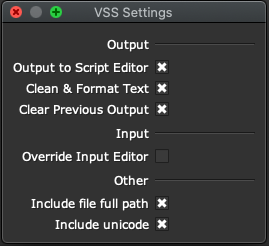
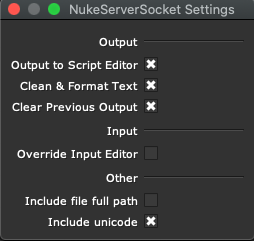
.

diff --git a/src/main.py b/src/main.py
@@ -12,12 +12,12 @@ from PySide2.QtWidgets import (
     QWidget
 )
 
-from VscodeServerSocket.src.connection import Server, ClientTest
-from VscodeServerSocket.src.widgets import (
+from NukeServerSocket.src.connection import Server, ClientTest
+from NukeServerSocket.src.widgets import (
     TextWidgets, ServerStatus, ErrorDialog, ToolBar
 )
 
-LOGGER = logging.getLogger('VscodeServerSocket.main')
+LOGGER = logging.getLogger('NukeServerSocket.main')
 LOGGER.debug('\nSTART APPLICATION')
 
 
@@ -60,7 +60,7 @@ class MainWindowWidget(QWidget):
     def _show_port_error():
         """Error message when port is not in the correct range."""
         err_msg = QErrorMessage()
-        err_msg.setWindowTitle('VscodeServerSocket')
+        err_msg.setWindowTitle('NukeServerSocket')
         err_msg.showMessage('Port should be between 49152 and 65535')
         err_msg.exec_()
 
@@ -128,7 +128,7 @@ class MainWindowWidget(QWidget):
 class MainWindow(QMainWindow):
     def __init__(self):
         QMainWindow.__init__(self)
-        self.setWindowTitle("TCP/Server")
+        self.setWindowTitle("NukeServerSocket")
 
         toolbar = ToolBar()
         self.addToolBar(toolbar)
@@ -151,5 +151,5 @@ except ImportError as error:
     pass
 else:
     nukescripts.panels.registerWidgetAsPanel(
-        'VscodeServerSocket.src.main.MainWindow', 'Vscode Server Socket',
-        'VscodeServerSocket.MainWindow')
+        'NukeServerSocket.src.main.MainWindow', 'NukeServerSocket',
+        'NukeServerSocket.MainWindow')

diff --git a/src/widgets/error_dialog.py b/src/widgets/error_dialog.py
@@ -10,13 +10,13 @@ import subprocess
 from PySide2.QtWidgets import QMessageBox
 from PySide2.QtGui import QClipboard, QDesktopServices
 
-from VscodeServerSocket.src import nuke
+from NukeServerSocket.src import nuke
 
 
-LOGGER = logging.getLogger('VscodeServerSocket.error_dialog')
+LOGGER = logging.getLogger('NukeServerSocket.error_dialog')
 
 __about__ = {
-    'VscodeServerPackage': '0.0.1',
+    'NukeServerSocket': '0.0.1',
     'PySide2': __version__,
     'Nuke': nuke.NUKE_VERSION_STRING,
     'machine': QSysInfo().prettyProductName()
@@ -59,7 +59,7 @@ class ErrorDialog(QMessageBox):
     def __init__(self, parent, msg):
         QMessageBox.__init__(self, parent)
 
-        self.setWindowTitle('Vscode Server Socket')
+        self.setWindowTitle('NukeServerSocket')
         self.setIcon(QMessageBox.Warning)
 
         self.setStandardButtons(QMessageBox.Help | QMessageBox.Ok)
@@ -68,7 +68,7 @@ class ErrorDialog(QMessageBox):
 
         self.buttonClicked.connect(self.click_event)
 
-        self.setText('Vscode Server Socket error...')
+        self.setText('NukeServerSocket error...')
         self.setInformativeText(str(msg))
 
         self.traceback_msg = traceback.format_exc()

diff --git a/src/connection/test_client.py b/src/connection/test_client.py
@@ -1,15 +1,16 @@
 # coding: utf-8
 from __future__ import print_function, with_statement
 
+import json
 import random
 import logging
 
 from PySide2.QtNetwork import QTcpSocket
 
-from VscodeServerSocket.src.utils import Settings, validate_output
+from NukeServerSocket.src.utils import Settings, validate_output
 
 
-LOGGER = logging.getLogger('VscodeServerSocket.client')
+LOGGER = logging.getLogger('NukeServerSocket.client')
 
 
 class ClientTest:
@@ -40,9 +41,12 @@ class ClientTest:
     def on_connected(self):
         LOGGER.debug('Connected to host')
         r = random.randint(1, 50)
-        output_text = (
-            "{\"text\":\"from __future__ import print_function; print('Hello from Test Client', %s)\", \"file\": \"path/to/tmp_file.py\" }" % r
-        )
+
+        output_text = {
+            "text": "from __future__ import print_function; print('Hello from Test Client', %s)" % r,
+            "file": "path/to/tmp_file.py"
+        }
+        output_text = json.dumps(output_text)
 
         self.socket.write(validate_output(output_text))
         LOGGER.debug('message sent: %s', output_text)

diff --git a/src/connection/socket.py b/src/connection/socket.py
@@ -6,9 +6,9 @@ import logging
 
 from PySide2.QtCore import QObject
 
-from VscodeServerSocket.src.utils import ScriptEditor, validate_output
+from NukeServerSocket.src.utils import ScriptEditor, validate_output
 
-LOGGER = logging.getLogger('VscodeServerSocket.socket')
+LOGGER = logging.getLogger('NukeServerSocket.socket')
 
 
 class Socket(QObject):
@@ -34,12 +34,16 @@ class Socket(QObject):
 
         msg = self.socket.readAll()
 
-        msg_data = json.loads(msg.data())
+        try:
+            msg_data = json.loads(msg.data())
+        except Exception as err:
+            LOGGER.critical("Invalid Json Deserialization: %s", err, exc_info=True)
+            return
 
         msg_to_string = msg_data['text']
         LOGGER.debug('msg data type: %s', type(msg))
 
-        script_editor = ScriptEditor(file=msg_data['file'])
+        script_editor = ScriptEditor(file=msg_data.get('file', ''))
         script_editor.set_text(msg_to_string)
         script_editor.execute()
 

diff --git a/src/widgets/options.py b/src/widgets/options.py
@@ -13,9 +13,9 @@ from PySide2.QtWidgets import (
     QSizePolicy
 )
 
-from VscodeServerSocket.src.utils import Settings
+from NukeServerSocket.src.utils import Settings
 
-LOGGER = logging.getLogger('VscodeServerSocket.server_status')
+LOGGER = logging.getLogger('NukeServerSocket.server_status')
 
 
 class QHLine(QFrame):
@@ -32,7 +32,7 @@ class QHLine(QFrame):
 class OptionsDialog(QDialog):
     def __init__(self, parent):
         QDialog.__init__(self, parent)
-        self.setWindowTitle('VSS Settings')
+        self.setWindowTitle('NukeServerSocket Settings')
         self.setObjectName('OptionsDialog')
 
         self.settings = Settings()

diff --git a/src/utils/get_script_editor.py b/src/utils/get_script_editor.py
@@ -17,12 +17,12 @@ from PySide2.QtWidgets import (
 )
 
 from .util import insert_time
-from VscodeServerSocket.src.utils import Settings
+from NukeServerSocket.src.utils import Settings
 
 # HACK: really dont like this way of executing code. is too hacky
 # TODO: can the script editor don't exists? if yes then what?
 
-LOGGER = logging.getLogger('VscodeServerSocket.get_script_editor')
+LOGGER = logging.getLogger('NukeServerSocket.get_script_editor')
 
 
 def _clean_output(text):

diff --git a/src/utils/settings.py b/src/utils/settings.py
@@ -6,13 +6,13 @@ import logging
 
 from PySide2.QtCore import QSettings
 
-LOGGER = logging.getLogger('VscodeServerSocket.settings')
+LOGGER = logging.getLogger('NukeServerSocket.settings')
 
 
 def config_file():
     """Get configuration file in home/.nuke"""
     return os.path.join(
-        os.path.expanduser('~'), '.nuke/VscodeServerSocket.ini'
+        os.path.expanduser('~'), '.nuke/NukeServerSocket.ini'
     )
 
 

diff --git a/test/test_main.py b/test/test_main.py
@@ -11,9 +11,9 @@ from PySide2.QtWidgets import (
 
 from PySide2 import QtTest
 
-from VscodeServerSocket import main
-from VscodeServerSocket.test import ScriptEditor
-from VscodeServerSocket.src.main import MainWindowWidget
+from NukeServerSocket import main
+from NukeServerSocket.test import ScriptEditor
+from NukeServerSocket.src.main import MainWindowWidget
 
 screen_loc = {
     'hp': {

diff --git a/src/connection/server.py b/src/connection/server.py
@@ -7,9 +7,9 @@ from PySide2.QtCore import QObject
 from PySide2.QtNetwork import QTcpServer, QHostAddress
 
 from .socket import Socket
-from VscodeServerSocket.src.utils import Settings
+from NukeServerSocket.src.utils import Settings
 
-LOGGER = logging.getLogger('VscodeServerSocket.server')
+LOGGER = logging.getLogger('NukeServerSocket.server')
 
 
 class Server(QObject):

diff --git a/src/widgets/server_status.py b/src/widgets/server_status.py
@@ -15,9 +15,9 @@ from PySide2.QtWidgets import (
     QLineEdit
 )
 
-from VscodeServerSocket.src.utils import Settings, get_ip
+from NukeServerSocket.src.utils import Settings, get_ip
 
-LOGGER = logging.getLogger('VscodeServerSocket.server_status')
+LOGGER = logging.getLogger('NukeServerSocket.server_status')
 
 
 class ServerStatus(QWidget):

diff --git a/src/utils/util.py b/src/utils/util.py
@@ -7,9 +7,9 @@ import logging
 from PySide2.QtCore import QByteArray, QTime
 from PySide2.QtNetwork import QNetworkInterface
 
-from VscodeServerSocket.src import nuke
+from NukeServerSocket.src import nuke
 
-LOGGER = logging.getLogger('VscodeServerSocket.util')
+LOGGER = logging.getLogger('NukeServerSocket.util')
 
 
 def insert_time(text):

diff --git a/src/logger.py b/src/logger.py
@@ -10,7 +10,7 @@ LOG_PATH = os.path.join(os.path.dirname(__file__), 'log')
 if not os.path.exists(LOG_PATH):
     os.mkdir(LOG_PATH)
 
-LOGGER = logging.getLogger('VscodeServerSocket')
+LOGGER = logging.getLogger('NukeServerSocket')
 LOGGER.propagate = False
 LOGGER.setLevel(logging.DEBUG)
 
